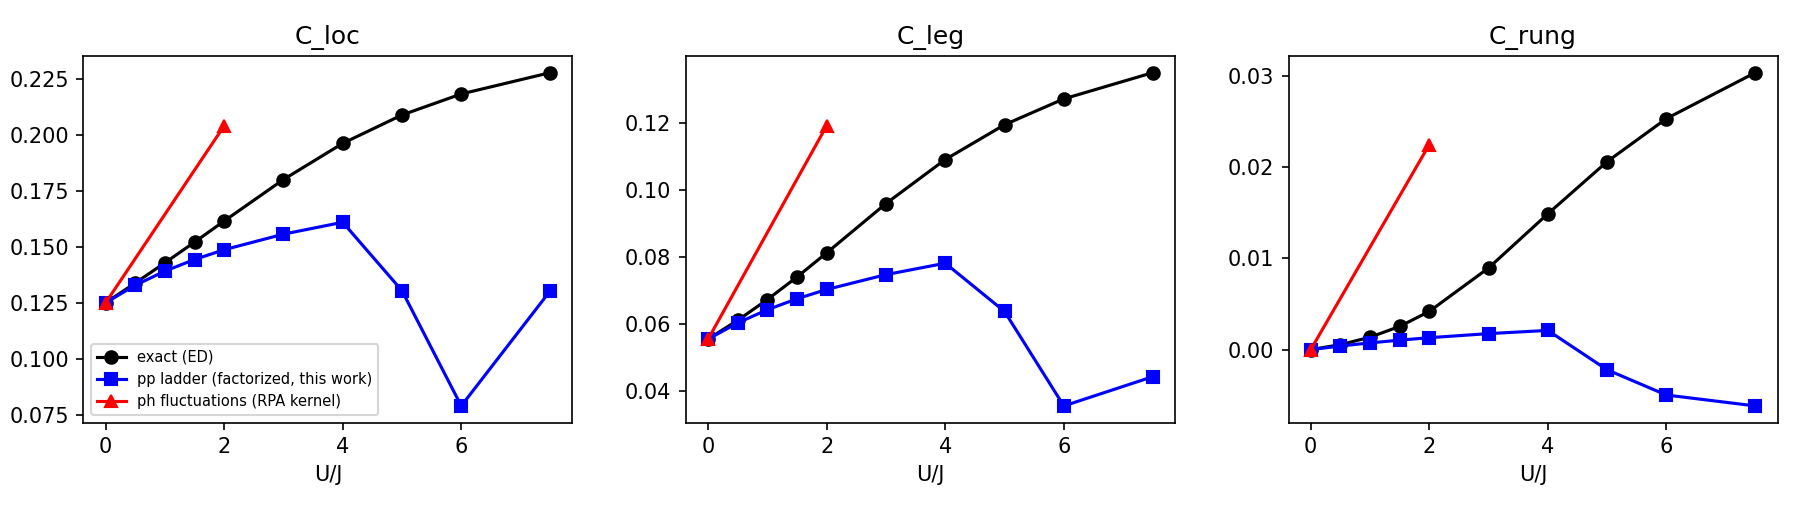
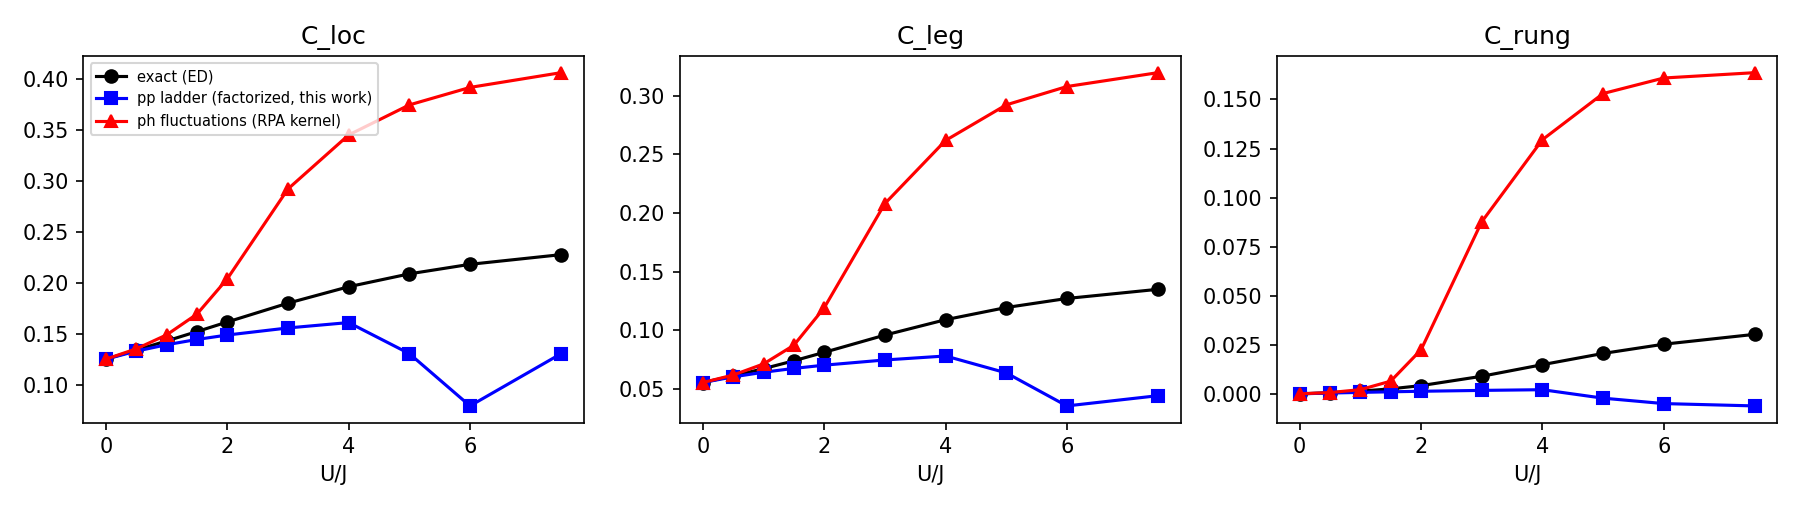
Ladder ground state: full ph-fluctuation sweep from the fresh-clone run

diff --git a/REPORT.md b/REPORT.md
@@ -528,7 +528,9 @@ Adiabatic switching of U.
 - The pp ladder is quantitative up to U/J ≈ 1.5.
 - It underestimates moment formation beyond that, and adiabatic switching fails for
   U/J ≥ 5.
-- The ph (RPA-kernel) method brackets the exact result from above: C_loc = 0.204 at U/J = 2.
+- The ph (RPA-kernel) method brackets the exact result from above. It is within 1 % (U/J = 0.5)
+  and 4 % (U/J = 1) of exact for C_loc, then overshoots: 0.204 vs 0.162 at U/J = 2 and 0.407 vs
+  0.228 at U/J = 7.5, as the RPA kernel approaches its magnetic instability.
 
 ![ladder](figures/hubbard_ladder.png)
 
